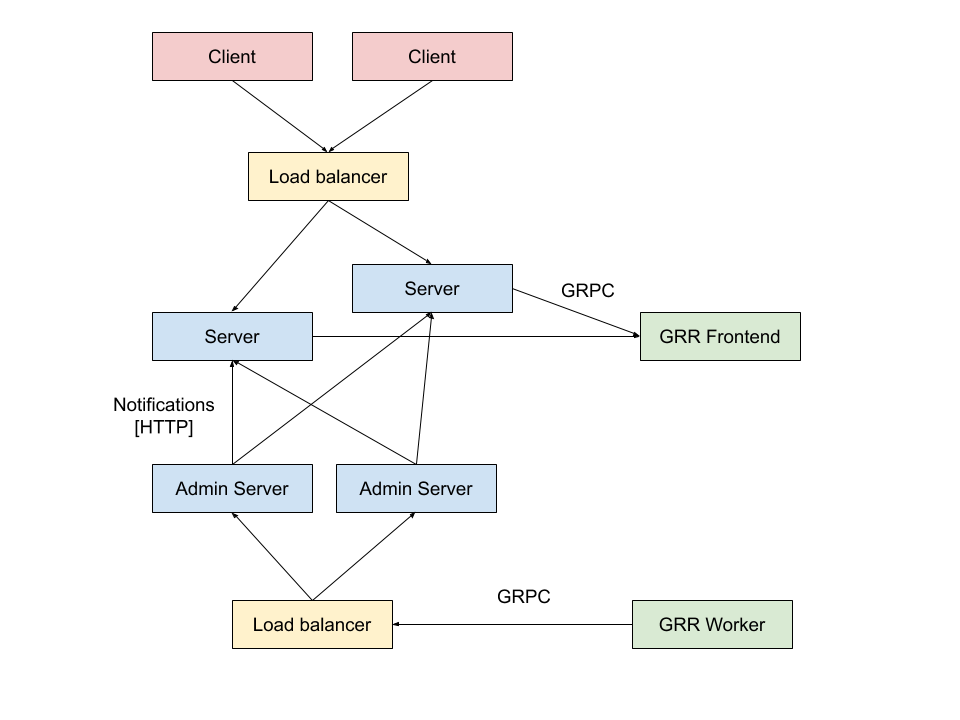
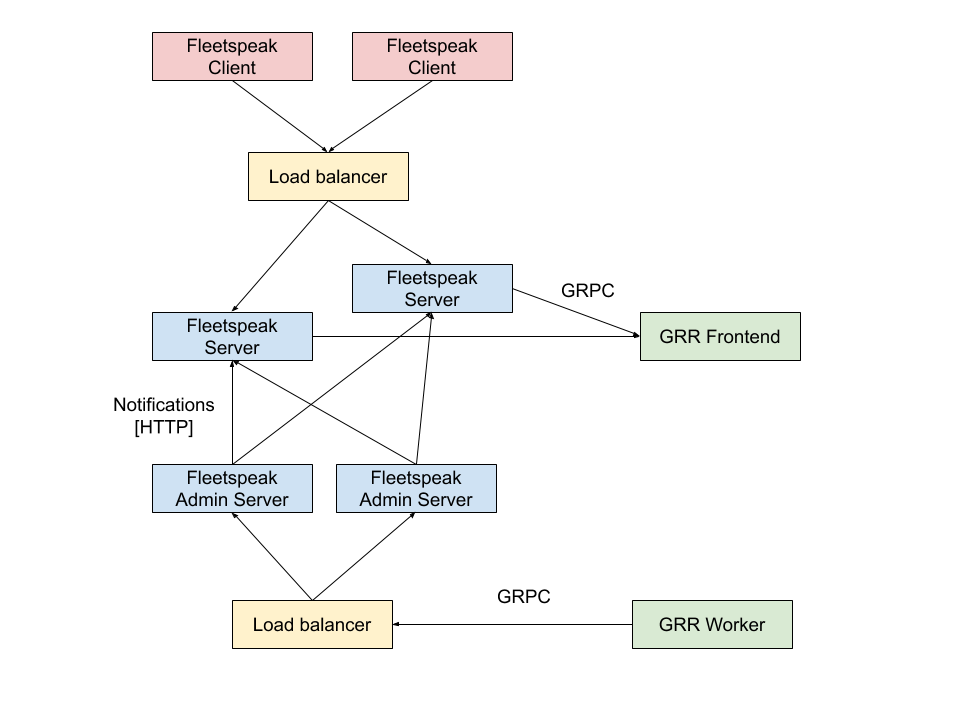
Improve diagram.
Server -> Fleetspeak Server
Admin Server -> Fleetspeak Admin Server

diff --git a/fleetspeak/scaling.md b/fleetspeak/scaling.md
@@ -7,15 +7,17 @@ The following diagram shows a standard, distributed fleetspeak setup:
 
 The fleetspeak server setup consists of 2 components:
 
-  - **Server**: This component terminates the streaming HTTPS
+  - **Fleetspeak Server**: This component terminates the streaming HTTPS
     connections from the fleetspeak clients. Each fleetspeak client is
     connected to a particular server instance at a time.
-  - **Admin server**: This component provides an administrative GRPC interface
-    as well as an interface for the GRR server to send messages to clients.
+  - **Fleetspeak Admin Server**: This component provides an administrative GRPC
+    interface as well as an interface for the GRR server to send messages to
+    clients.
 
 Both components are included in the single binary `/usr/bin/fleetspeak-server`
 and can be enabled respectively in the config file
-`/etc/fleetspeak-server/server.components.config`.
+`/etc/fleetspeak-server/server.components.config`. The binary is automatically
+started by the systemd unit `fleetspeak-server`.
 
 In the legacy GRR protocol, clients would periodically poll the server for
 messages, leading to delays in message delivery. Fleetspeak on the other hand
@@ -34,7 +36,7 @@ To run a fleetspeak in a distributed setup:
     `/etc/fleetspeak-server/server.components.config` from a working
     installation, adapt them and distribute them to the target machines.
 
-## Running the server component
+## Running the Fleetspeak Server component
 
 To run a server component, keep the `https_config` section and remove the
 `admin_config` section in the file
@@ -85,7 +87,7 @@ Please enter your hostname e.g. grr.example.com [grr-server]: 1.2.3.4
 Fleetspeak public HTTPS port [4443]: 4443
 ```
 
-## Running the admin server component
+## Running the Fleetspeak Admin Server component
 
 To run the admin server component, keep the `admin_config` section and remove
 the `https_config` section in the file
